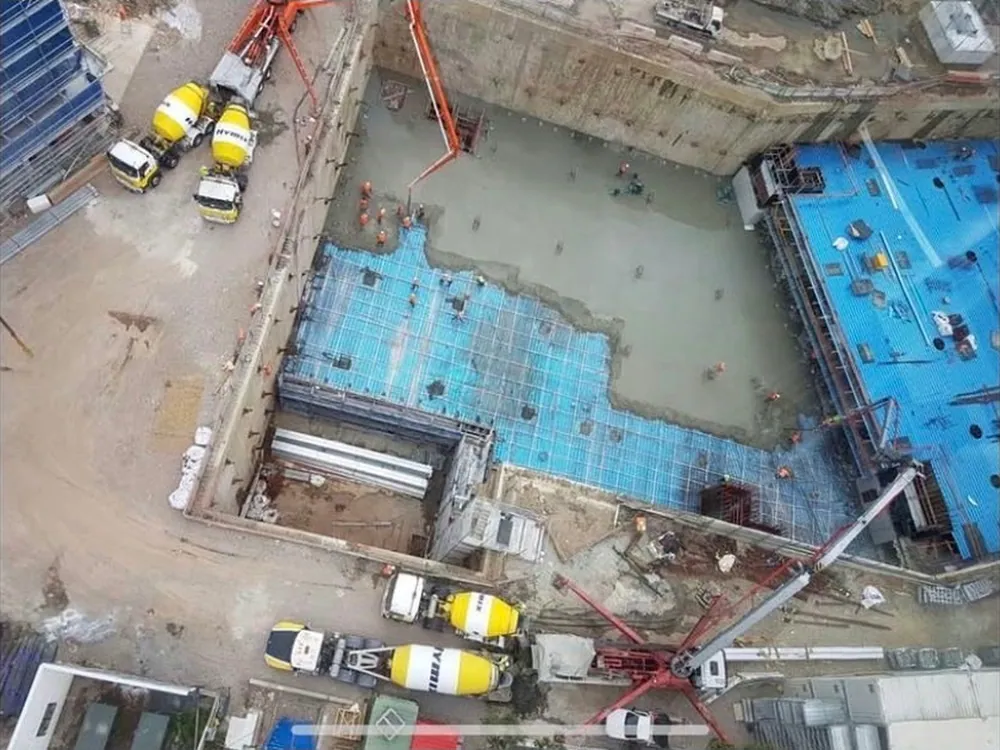
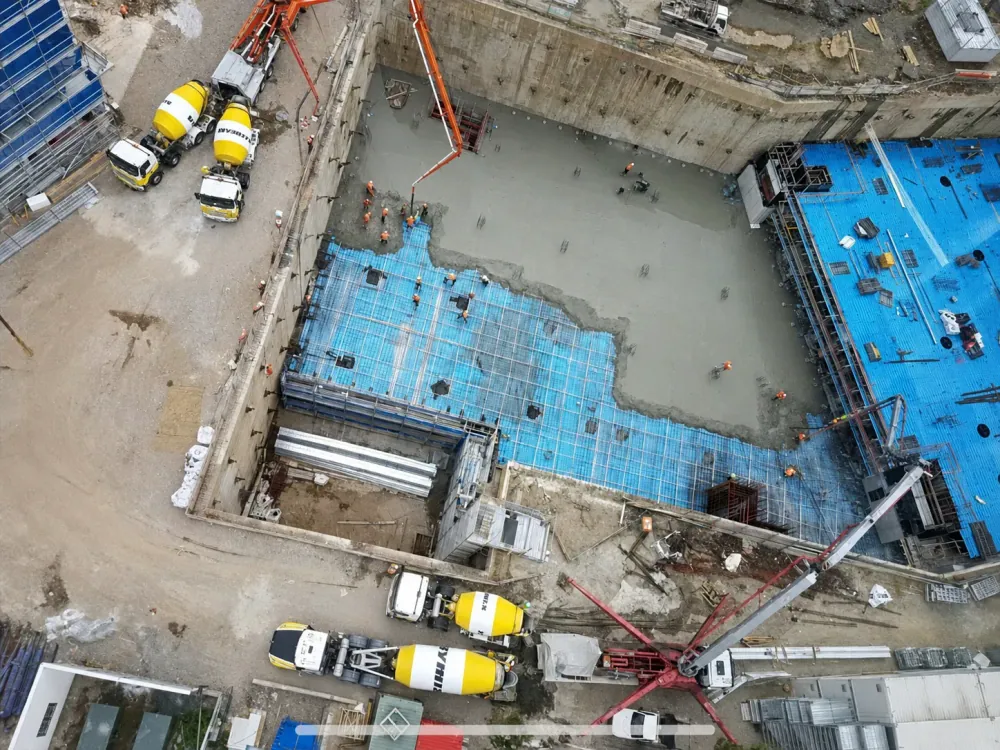
Enhanced photos 30 Aug 2026: replace every blurry instance of six photographs; full-res sources for large gallery tiles
Zak supplied enhanced versions of six of Allscope's own photos. Each site
instance was located by perceptual hash and swapped at native resolution:
gallery featured opener (IMG_1068), aerial raft pour (IMG_1040, also the
capabilities cap-band slot), school twilight amphitheatre (also the Oran
Park Public School page, OJ4-OPS-02 -> UP-OPS-02), basement raft pour,
footing pour beside the excavator (its blurry near-duplicate IMG_1059
removed - gallery now 209), and the tiered-seating steps. Masters live in
ALLSCOPE-ENHANCED-REPLACEMENTS-2026-08-30 outside the repo, wired through
the gallery selection's new replacement field, the features REPLACEMENTS
table, and the photo-upgrades module. Root cause also fixed: featured and
full-width gallery tiles rendered the 1000px thumb at up to 100vw; they now
serve the full master via the optimizer. Lint/tsc/build green; QA at
390/1440 ALL GREEN. Not pushed - deploy still gated on image permissions
for the 29 Aug pack commit beneath.

diff --git a/src/content/gallery-data.gen.ts b/src/content/gallery-data.gen.ts
@@ -61,7 +61,7 @@ export const galleryPhotos: GalleryPhoto[] = [
     "thumb": "/media/gallery/thumb/photo-2026-07-29-20-58-23.webp",
     "full": "/media/gallery/full/photo-2026-07-29-20-58-23.webp",
     "width": 1000,
-    "height": 642,
+    "height": 643,
     "orientation": "landscape",
     "alt": "Twilight view of a completed school courtyard with tiered concrete amphitheatre seating and checkerboard paving.",
     "caption": "Structural concrete works",
@@ -1420,7 +1420,7 @@ export const galleryPhotos: GalleryPhoto[] = [
   {
     "thumb": "/media/gallery/thumb/photo-2026-07-29-20-58-15.webp",
     "full": "/media/gallery/full/photo-2026-07-29-20-58-15.webp",
-    "width": 561,
+    "width": 605,
     "height": 1000,
     "orientation": "portrait",
     "alt": "Two concreters finishing a fresh section of a basement raft pour beside an excavator in a shored dig.",
@@ -1485,16 +1485,6 @@ export const galleryPhotos: GalleryPhoto[] = [
     "orientation": "portrait",
     "alt": "Freshly cast kerb curving past a formed-up footpath with mesh on bar chairs while a worker hoses the works at dusk.",
     "caption": "Reinforcement and formwork",
-    "role": "row"
-  },
-  {
-    "thumb": "/media/gallery/thumb/img-1059.webp",
-    "full": "/media/gallery/full/img-1059.webp",
-    "width": 787,
-    "height": 1000,
-    "orientation": "portrait",
-    "alt": "Elevated view of a sandy basement excavation with an excavator, formwork and two workers finishing a small fresh concrete section.",
-    "caption": "Commercial concrete construction",
     "role": "row"
   },
   {
@@ -1931,9 +1921,9 @@ export const galleryPhotos: GalleryPhoto[] = [
     "thumb": "/media/gallery/thumb/photo-2026-07-29-20-58-14-1-.webp",
     "full": "/media/gallery/full/photo-2026-07-29-20-58-14-1-.webp",
     "width": 1000,
-    "height": 752,
+    "height": 667,
     "orientation": "landscape",
-    "alt": "Concrete tiered seating and stairs in a courtyard washed out by low sun glare.",
+    "alt": "Concrete tiered seating and stairs in a courtyard at low golden sun.",
     "caption": "Structural concrete works",
     "role": "row"
   },

diff --git a/src/components/cinema/GalleryGrid.tsx b/src/components/cinema/GalleryGrid.tsx
@@ -104,7 +104,7 @@ function RowSet({
                 ))}
               </div>
             ) : row.items[0].orientation === "landscape" ? (
-              <Tile photo={row.items[0]} index={row.start} open={open} />
+              <Tile photo={row.items[0]} index={row.start} open={open} hires />
             ) : (
               <div className="mx-auto w-full max-w-md md:max-w-lg">
                 <Tile photo={row.items[0]} index={row.start} open={open} />
@@ -122,12 +122,16 @@ function Tile({
   open,
   eager = false,
   large = false,
+  hires = false,
 }: {
   photo: GalleryPhoto;
   index: number;
   open: (i: number) => void;
   eager?: boolean;
   large?: boolean;
+  /** Full-width tiles render past the 1000px thumb; serve the full master
+   *  so the optimizer can deliver sharp variants at 80-100vw. */
+  hires?: boolean;
 }) {
   return (
     <button
@@ -141,7 +145,7 @@ function Tile({
         style={{ aspectRatio: `${photo.width} / ${photo.height}` }}
       >
         <Image
-          src={photo.thumb}
+          src={large || hires ? photo.full : photo.thumb}
           alt={photo.alt}
           fill
           sizes={

diff --git a/src/content/projects-data.gen.ts b/src/content/projects-data.gen.ts
@@ -1324,10 +1324,10 @@ export const projectRecords: ProjectRecord[] = [
     },
     "gallery": [
       {
-        "assetId": "OJ4-OPS-02",
-        "src": "/media/projects/oran-park-public-school/OJ4-OPS-02.webp",
-        "width": 2000,
-        "height": 1286,
+        "assetId": "UP-OPS-02",
+        "src": "/media/projects/oran-park-public-school/UP-OPS-02.webp",
+        "width": 1564,
+        "height": 1006,
         "orientation": "landscape",
         "tier": "B",
         "render": false,

diff --git a/src/content/capability-data.gen.ts b/src/content/capability-data.gen.ts
@@ -56,8 +56,8 @@ export const featurePhotos = {
   },
   "cap-band": {
     "src": "/media/features/cap-band.webp",
-    "width": 2400,
-    "height": 1800,
+    "width": 1448,
+    "height": 1086,
     "alt": "Aerial view of a large basement raft pour with two concrete pump booms, queued agitator trucks and crews spreading concrete"
   },
   "about-pour": {

diff --git a/docs/PHOTO-INTEGRATION-REGISTER.md b/docs/PHOTO-INTEGRATION-REGISTER.md
@@ -234,3 +234,24 @@ ASC-ASH-007. Perceptual-hash matched and confirmed visually.
 the repo, no El Jannah Minto entry created, El Jannah Prestons page left
 untouched. Ali must confirm Minto is an Allscope location before these are
 integrated (then Abacorp / photographer permission also applies).
+
+## Enhanced replacements, 30 Aug 2026
+
+Zak supplied enhanced versions of six of Allscope's own photographs whose
+served copies were visibly soft (masters: ALLSCOPE-ENHANCED-REPLACEMENTS-2026-08-30,
+beside the other photo folders). Every site instance was located by
+perceptual hash and replaced at native resolution, never upscaled:
+
+| Photo | Instances replaced |
+|---|---|
+| Golden-hour deck with pump boom (IMG_1068) | Gallery featured opener |
+| Aerial basement raft pour (IMG_1040) | Gallery + capabilities band (cap-band slot) |
+| School twilight amphitheatre (PHOTO ...20-58-23) | Gallery + Oran Park Public School page (OJ4-OPS-02 -> UP-OPS-02) |
+| Basement raft pour between shotcrete walls (...20-56-53) | Gallery |
+| Footing pour beside excavator (...20-58-15) | Gallery; the blurry near-duplicate IMG_1059 entry was removed (gallery now 209) |
+| Tiered seating at low sun (...20-58-14(1)) | Gallery |
+
+Also fixed at the root: full-width gallery tiles (featured and solo
+landscape rows) previously rendered the 1000px thumb at up to 100vw, which
+made even sharp masters look soft on large or high-DPI screens; they now
+serve the full master through the image optimizer (GalleryGrid `hires`).
